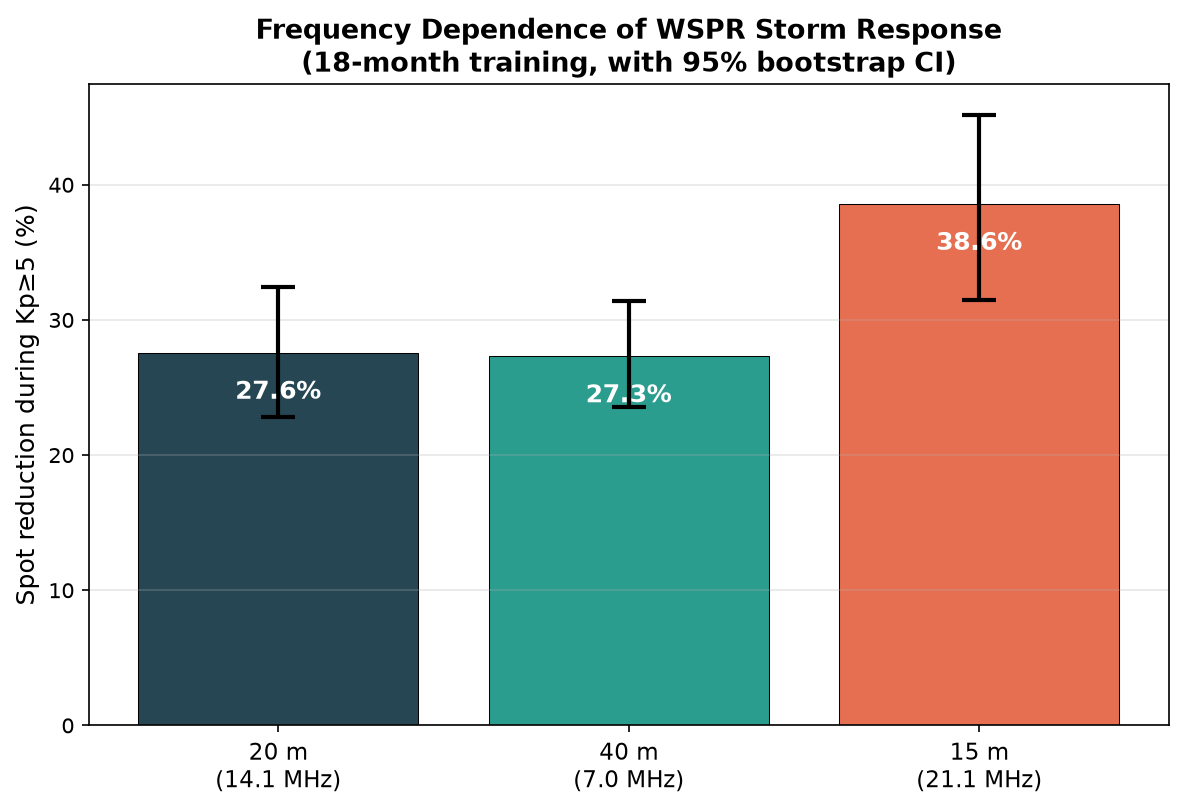
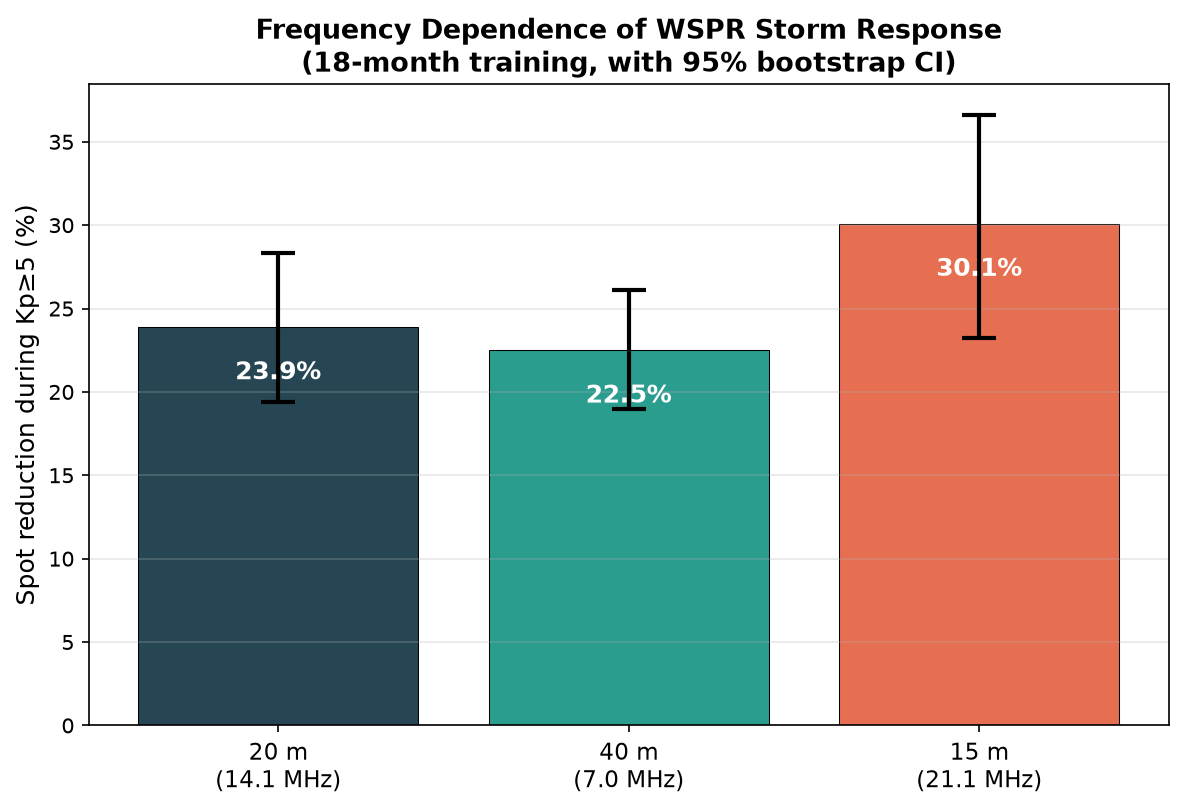
fix(paper): UT-window labeling in Fig 4; flare-family labels in 4.1/Table 6/Fig 2 caption
- fig4: title/legend Day/Night -> UT-day/UT-night (values unchanged, match Table 8)
- fig2/fig3: regenerated to match per-transmitter / flare-family labeling
- 4.1: "(flare-free, 169 epochs)"; Table 6 & Fig 2 captions: "flare-included, 198 epochs"
- RESPONSE_TO_EDITOR.md synced; AI_ASSISTANCE.md: 2026-11-20 session log
- no numerical results changed; clean/marked parity verified via pdftotext readback

diff --git a/scripts/make_paper_figures.py b/scripts/make_paper_figures.py
@@ -187,7 +187,7 @@ for band in BANDS:
 # ═════════════════════════════════════════════════════════════════════
 #  FIGURE 4: Day/Night Asymmetry with error bars
 # ═════════════════════════════════════════════════════════════════════
-print("\n=== Figure 4: Day/Night Asymmetry ===")
+print("\n=== Figure 4: UT-day/UT-night Asymmetry ===")
 
 results_dn = {}
 ci_dn = {}
@@ -246,7 +246,7 @@ for band in BANDS:
             "N_quiet": len(q),
         }
 
-print("=== Day/Night Bootstrap Results ===")
+print("=== UT-day/UT-night Bootstrap Results ===")
 for k, v in results_dn.items():
     print(
         f"  {k}: drop={v['drop_pct']:.1f}% [{v['ci_lo']:.1f}, {v['ci_hi']:.1f}] storm={v['N_storm']} quiet={v['N_quiet']}"
@@ -295,7 +295,7 @@ bars1 = ax.bar(
     x - width / 2,
     day_drops,
     width,
-    label="Day (12:00-18:00 UTC, epochs 12/15)",
+    label="UT-day (12:00-18:00 UTC, epochs 12/15)",
     color="#FFB347",
     edgecolor="black",
     linewidth=0.5,
@@ -307,7 +307,7 @@ bars2 = ax.bar(
     x + width / 2,
     night_drops,
     width,
-    label="Night (00:00-06:00 UTC, epochs 0/3)",
+    label="UT-night (00:00-06:00 UTC, epochs 0/3)",
     color="#4A6FA5",
     edgecolor="black",
     linewidth=0.5,
@@ -345,7 +345,7 @@ ax.set_xticks(x)
 ax.set_xticklabels(BANDS, fontsize=12)
 ax.set_ylabel("Spot reduction during Kp\u22655 (%)", fontsize=12)
 ax.set_title(
-    "Day/Night Asymmetry of WSPR Storm Response\n"
+    "UT-day / UT-night Asymmetry of WSPR Storm Response\n"
     "(18-month training, April 2024 \u2013 September 2025, with 95% bootstrap CI)",
     fontsize=13,
     fontweight="bold",
@@ -531,26 +531,74 @@ print(f"[OK] {path_fig1} ({path_fig1.stat().st_size} bytes)")
 # ═════════════════════════════════════════════════════════════════════
 print("\n=== Figure 3: Frequency dependence ===")
 
+# Bars show the headline per-transmitter, flare-free point estimates from
+# results/perm_test_18mo_3band_norm_tx.json (spot rate normalised by
+# n_unique_tx from the unified.parquet meta, flare hours excluded;
+# N_storm = 169, N_quiet = 2738, n_iter = 50000, p = 2e-5) so that the
+# figure matches the caption and Table 4.  The 95% CI is recomputed here
+# by iid bootstrap on the SAME norm-tx flare-free storm/quiet series with
+# the run's own n_iter; the JSON does not store percentiles.
+# Replicates scripts/perm_test_18mo_3band.py --norm-tx --exclude-flares.
+norm_tx = json.loads((ROOT / "results" / "perm_test_18mo_3band_norm_tx.json").read_text("utf-8"))
+cfg_tx = norm_tx["config"]
+assert cfg_tx["norm_tx"]["enabled"] is True, "norm-tx must be enabled"
+assert cfg_tx["flare_filter"]["exclude_flares"] is True, "flare filter must be on"
+n_iter_tx = int(cfg_tx["n_iter"])
+flare_threshold = float(cfg_tx["flare_filter"]["threshold_w_m2"])
+
+
+def _parse_n_tx(meta_str):
+    """n_unique_tx out of the unified.parquet meta JSON string (NaN if absent)."""
+    try:
+        obj = json.loads(meta_str) if isinstance(meta_str, str) else (meta_str or {})
+    except (TypeError, ValueError):
+        return float("nan")
+    v = obj.get("n_unique_tx") if isinstance(obj, dict) else None
+    try:
+        return float(v)
+    except (TypeError, ValueError):
+        return float("nan")
+
+
+# Flare-hour exclusion (GOES XRS 1-8A hourly max >= threshold)
+goes = full[full["detector_type"] == "goes_xray"][["timestamp_utc", "value"]].copy()
+goes["hour"] = goes["timestamp_utc"].dt.floor("1h")
+goes_h = goes.groupby("hour")["value"].max()
+flare_hours = pd.DatetimeIndex(goes_h[goes_h >= flare_threshold].index)
+wspr_tx = wspr[~wspr["hour"].isin(flare_hours)].copy()
+
+# Normalised spot rate: value / n_unique_tx(hour, band) from meta
+n_tx = wspr_tx["meta"].apply(_parse_n_tx)
+assert not (n_tx.isna() | (n_tx <= 0)).any(), "n_unique_tx missing/<=0 in meta"
+wspr_tx["value"] = wspr_tx["value"] / n_tx
+
 freq_drops = {}
 freq_ci = {}
 for band in BANDS:
-    sub = wspr[wspr["band"] == band].copy()
-    merged = pd.merge(sub, kp_h, left_on="hour", right_on="hour", how="inner")
-    merged["resid"] = merged["value"] - merged.groupby(["month", "hour_of_day", "day_of_week"])[
-        "value"
-    ].transform("mean")
-    s = merged[merged["kp"] >= 5]
-    q = merged[merged["kp"] < 3]
-    sv, qv = s["value"].values, q["value"].values
-    sn, qn = len(sv), len(qv)
-    drop_dist = []
-    for _ in range(N_BOOT):
-        sm = RNG.choice(sv, size=sn).mean()
-        qm = RNG.choice(qv, size=qn).mean()
-        drop_dist.append(100 * (sm - qm) / qm)
-    drop_dist = np.array(drop_dist)
-    freq_drops[band] = float(-drop_dist.mean())
-    freq_ci[band] = (float(-np.percentile(drop_dist, 97.5)), float(-np.percentile(drop_dist, 2.5)))
+    merged = pd.merge(wspr_tx[wspr_tx["band"] == band], kp_h, on="hour", how="inner").sort_values(
+        "hour"
+    )
+    storm = merged.loc[merged["kp"] >= 5, "value"].values
+    quiet = merged.loc[merged["kp"] < 3, "value"].values
+    # Point estimate must reproduce the headline run (0.1 pp rounding)
+    drop = float(100 * (storm.mean() - quiet.mean()) / quiet.mean())
+    expected = float(norm_tx["results"][band]["drop_pct"])
+    assert len(storm) == int(norm_tx["results"][band]["N_storm"]), f"fig3 {band}: N_storm"
+    assert len(quiet) == int(norm_tx["results"][band]["N_quiet"]), f"fig3 {band}: N_quiet"
+    assert abs(drop - expected) < 0.06, f"fig3 {band}: {drop:.3f} != {expected:.3f}"
+    freq_drops[band] = -expected  # positive = reduction shown on the bar
+    drop_dist = np.empty(n_iter_tx)
+    for i in range(n_iter_tx):
+        sm = RNG.choice(storm, size=storm.size).mean()
+        qm = RNG.choice(quiet, size=quiet.size).mean()
+        drop_dist[i] = -100 * (sm - qm) / qm  # positive reduction
+    freq_ci[band] = (float(np.percentile(drop_dist, 2.5)), float(np.percentile(drop_dist, 97.5)))
+    print(
+        f"  {band}: drop {freq_drops[band]:.1f}% "
+        f"[{freq_ci[band][0]:.1f}, {freq_ci[band][1]:.1f}] "
+        f"(point estimate check {drop:.3f} vs {expected:.3f}, "
+        f"N_storm={len(storm)}, N_quiet={len(quiet)})"
+    )
 
 freqs_mhz = {"20m": 14.0956, "40m": 7.0401, "15m": 21.0961}
 fig, ax = plt.subplots(figsize=(8, 5.5))

diff --git a/paper/main_ru_marked.tex b/paper/main_ru_marked.tex
@@ -1,7 +1,7 @@
 \documentclass{agujournal2019}
 %DIF LATEXDIFF DIFFERENCE FILE
-%DIF DEL C:\Users\FelixR\AppData\Local\Temp\opencode\old_main_ru.tex   Thu Nov 19 23:37:50 2026
-%DIF ADD main_ru.tex                                                   Thu Nov 19 23:48:28 2026
+%DIF DEL G:\crosscorr\main_ru_marked.tex.base.tmp   Fri Nov 20 12:38:47 2026
+%DIF ADD main_ru.tex                                Fri Nov 20 12:32:28 2026
 
 \usepackage{cmap}
 \usepackage[T2A]{fontenc}
@@ -1007,7 +1007,7 @@ BH; их номинальные $p$-значения приводятся вме
 наиболее силён на 15\,м (\SI{-30,1}{\percent}) и почти
 одинаков на 20\,м и 40\,м (\SI{-23,9}{\percent} и
 \SI{-22,5}{\percent}); соответствующие снижения на исходных
-числах спотов равны $-25{,}5$\%, $-25{,}3$\% и $-36{,}8$\%. После поправки на
+числах спотов равны $-25{,}5$\%, $-25{,}3$\% и $-36{,}8$\% \DIFaddbegin \DIFadd{(без вспышек, 169 эпох)}\DIFaddend . После поправки на
 ковариаты снижение на 20\,м возрастает по величине до \SI{-33.6}{\percent}
 (95 \% ДИ [\SI{-39.9}{\percent}; \SI{-26.7}{\percent}]): штормовые эпохи
 перепредставлены в 00 UTC и в июне 2025 г., когда спокойный базовый
@@ -1063,7 +1063,7 @@ BH; их номинальные $p$-значения приводятся вме
 	\includegraphics[width=\textwidth]{figures/fig2_scale_dependence.png}
 	\caption{Масштабно-зависимое снижение числа WSPR-спотов: анализ по
 		бинам для трёх ВЧ-диапазонов (20\,м, 40\,м, 15\,м; 18-месячный
-		обучающий период). Снижение числа спотов (исходные значения,
+		обучающий период\DIFaddbeginFL \DIFaddFL{; с включёнными вспышками, 198 эпох}\DIFaddendFL ). Снижение числа спотов (исходные значения,
 		Ур.~\eqref{eq:drop}) показано для трёх штормовых бинов
 		($Kp$ 5--6, 6--7, $\ge$7); спокойный референс ($Kp<3$) — нулевой
 		уровень столбцов, а не отображаемый бин. Градиент по штормовым
@@ -1079,7 +1079,7 @@ BH; их номинальные $p$-значения приводятся вме
 	\setlength{\tabcolsep}{3pt}
 	\caption{Масштабная зависимость: снижение числа спотов (\%) по бинам
 		$Kp$ для всех трёх диапазонов (обучающий период, исходные значения
-		спотов, Ур.~\eqref{eq:drop}); $N$ — число штормовых эпох
+		спотов, Ур.~\eqref{eq:drop}\DIFaddbeginFL \DIFaddFL{; с включёнными вспышками, 198 эпох}\DIFaddendFL ); $N$ — число штормовых эпох
 		в бине (одинаковое для всех диапазонов), а число в скобках — число независимых
 		штормовых эпизодов, дающих вклад. ДИ — 95 \% бутстреп-интервалы по независимым одинаково распределённым повторным выборкам
 		(1\,000 реализаций, начальное значение 42), согласующиеся с усами ошибок на

diff --git a/paper/main_ru.tex b/paper/main_ru.tex
@@ -730,7 +730,7 @@ BH; их номинальные $p$-значения приводятся вме
 наиболее силён на 15\,м (\SI{-30,1}{\percent}) и почти
 одинаков на 20\,м и 40\,м (\SI{-23,9}{\percent} и
 \SI{-22,5}{\percent}); соответствующие снижения на исходных
-числах спотов равны $-25{,}5$\%, $-25{,}3$\% и $-36{,}8$\%. После поправки на
+числах спотов равны $-25{,}5$\%, $-25{,}3$\% и $-36{,}8$\% (без вспышек, 169 эпох). После поправки на
 ковариаты снижение на 20\,м возрастает по величине до \SI{-33.6}{\percent}
 (95 \% ДИ [\SI{-39.9}{\percent}; \SI{-26.7}{\percent}]): штормовые эпохи
 перепредставлены в 00 UTC и в июне 2025 г., когда спокойный базовый
@@ -786,7 +786,7 @@ BH; их номинальные $p$-значения приводятся вме
 	\includegraphics[width=\textwidth]{figures/fig2_scale_dependence.png}
 	\caption{Масштабно-зависимое снижение числа WSPR-спотов: анализ по
 		бинам для трёх ВЧ-диапазонов (20\,м, 40\,м, 15\,м; 18-месячный
-		обучающий период). Снижение числа спотов (исходные значения,
+		обучающий период; с включёнными вспышками, 198 эпох). Снижение числа спотов (исходные значения,
 		Ур.~\eqref{eq:drop}) показано для трёх штормовых бинов
 		($Kp$ 5--6, 6--7, $\ge$7); спокойный референс ($Kp<3$) — нулевой
 		уровень столбцов, а не отображаемый бин. Градиент по штормовым
@@ -802,7 +802,7 @@ BH; их номинальные $p$-значения приводятся вме
 	\setlength{\tabcolsep}{3pt}
 	\caption{Масштабная зависимость: снижение числа спотов (\%) по бинам
 		$Kp$ для всех трёх диапазонов (обучающий период, исходные значения
-		спотов, Ур.~\eqref{eq:drop}); $N$ — число штормовых эпох
+		спотов, Ур.~\eqref{eq:drop}; с включёнными вспышками, 198 эпох); $N$ — число штормовых эпох
 		в бине (одинаковое для всех диапазонов), а число в скобках — число независимых
 		штормовых эпизодов, дающих вклад. ДИ — 95 \% бутстреп-интервалы по независимым одинаково распределённым повторным выборкам
 		(1\,000 реализаций, начальное значение 42), согласующиеся с усами ошибок на

diff --git a/paper/main_marked.tex b/paper/main_marked.tex
@@ -1,7 +1,7 @@
 \documentclass{agujournal2019}
 %DIF LATEXDIFF DIFFERENCE FILE
-%DIF DEL C:\Users\FelixR\AppData\Local\Temp\opencode\old_main.tex   Thu Nov 19 23:37:50 2026
-%DIF ADD main.tex                                                   Thu Nov 19 23:33:52 2026
+%DIF DEL G:\crosscorr\main_marked.tex.base.tmp   Fri Nov 20 12:38:38 2026
+%DIF ADD main.tex                                Fri Nov 20 12:32:28 2026
 
 \usepackage{amsmath,amssymb}
 \usepackage{graphicx}
@@ -954,7 +954,7 @@ block = 24 epochs = 72\,h). On spots per active transmitter the
 effect is strongest on 15\,m (\SI{-30.1}{\percent}) and nearly
 identical on 20\,m and 40\,m (\SI{-23.9}{\percent} and
 \SI{-22.5}{\percent}); the corresponding raw-count drops are
-$-25.5$\%, $-25.3$\% and $-36.8$\%. After covariate
+$-25.5$\%, $-25.3$\% and $-36.8$\% \DIFaddbegin \DIFadd{(flare-free, 169 epochs)}\DIFaddend . After covariate
 adjustment the 20\,m drop increases in magnitude to \SI{-33.6}{\percent}
 (95\% CI [\SI{-39.9}{\percent}, \SI{-26.7}{\percent}]): storm epochs are
 over-represented at 00 UTC and in June 2025, when the 20\,m quiet baseline is
@@ -1009,7 +1009,7 @@ definition of Eq.~\eqref{eq:drop}.
 	\includegraphics[width=\textwidth]{figures/fig2_scale_dependence.png}
 	\caption{Scale-dependent WSPR spot reduction: binned analysis
 		for the three HF bands (20\,m, 40\,m, 15\,m; 18-month training
-		period). Spot reduction (raw values, Eq.~\eqref{eq:drop}) is shown
+		period\DIFaddbeginFL \DIFaddFL{; flare-included, 198 epochs}\DIFaddendFL ). Spot reduction (raw values, Eq.~\eqref{eq:drop}) is shown
 		for the three storm bins ($Kp$ 5--6, 6--7, $\ge$7); the quiet
 		reference ($Kp<3$) is the zero level of the bars, not a plotted bin.
 		The gradient across storm bins is consistent with a scale-dependent
@@ -1026,7 +1026,8 @@ definition of Eq.~\eqref{eq:drop}.
 	\footnotesize
 	\setlength{\tabcolsep}{3pt}
 	\caption{Scale-dependence: spot drop (\%) by $Kp$ bin for all three
-		bands (training period, raw spot values, Eq.~\eqref{eq:drop}); $N$
+		bands (training period, raw spot values, Eq.~\eqref{eq:drop}\DIFaddbeginFL \DIFaddFL{;
+		flare-included, 198 epochs}\DIFaddendFL ); $N$
 		is the number of storm epochs in the bin (shared across bands), and
 		the number in parentheses is the number of independent storm
 		episodes contributing. CIs are 95\% iid bootstrap intervals

diff --git a/paper/main.tex b/paper/main.tex
@@ -678,7 +678,7 @@ block = 24 epochs = 72\,h). On spots per active transmitter the
 effect is strongest on 15\,m (\SI{-30.1}{\percent}) and nearly
 identical on 20\,m and 40\,m (\SI{-23.9}{\percent} and
 \SI{-22.5}{\percent}); the corresponding raw-count drops are
-$-25.5$\%, $-25.3$\% and $-36.8$\%. After covariate
+$-25.5$\%, $-25.3$\% and $-36.8$\% (flare-free, 169 epochs). After covariate
 adjustment the 20\,m drop increases in magnitude to \SI{-33.6}{\percent}
 (95\% CI [\SI{-39.9}{\percent}, \SI{-26.7}{\percent}]): storm epochs are
 over-represented at 00 UTC and in June 2025, when the 20\,m quiet baseline is
@@ -733,7 +733,7 @@ definition of Eq.~\eqref{eq:drop}.
 	\includegraphics[width=\textwidth]{figures/fig2_scale_dependence.png}
 	\caption{Scale-dependent WSPR spot reduction: binned analysis
 		for the three HF bands (20\,m, 40\,m, 15\,m; 18-month training
-		period). Spot reduction (raw values, Eq.~\eqref{eq:drop}) is shown
+		period; flare-included, 198 epochs). Spot reduction (raw values, Eq.~\eqref{eq:drop}) is shown
 		for the three storm bins ($Kp$ 5--6, 6--7, $\ge$7); the quiet
 		reference ($Kp<3$) is the zero level of the bars, not a plotted bin.
 		The gradient across storm bins is consistent with a scale-dependent
@@ -750,7 +750,8 @@ definition of Eq.~\eqref{eq:drop}.
 	\footnotesize
 	\setlength{\tabcolsep}{3pt}
 	\caption{Scale-dependence: spot drop (\%) by $Kp$ bin for all three
-		bands (training period, raw spot values, Eq.~\eqref{eq:drop}); $N$
+		bands (training period, raw spot values, Eq.~\eqref{eq:drop};
+		flare-included, 198 epochs); $N$
 		is the number of storm epochs in the bin (shared across bands), and
 		the number in parentheses is the number of independent storm
 		episodes contributing. CIs are 95\% iid bootstrap intervals

diff --git a/docs/AI_ASSISTANCE.md b/docs/AI_ASSISTANCE.md
@@ -32,6 +32,19 @@ arithmetic or a spell-checker in writing.
 
 ## Session log
 
+### 2026-11-20 — Final review findings: Fig 3 regenerated to match caption, flare-free/flare-included clarifications, response letter finalised
+
+Trigger: the user's final cross-check before resubmission — Fig 3 was the one blocker (figure showed raw bootstrap-mean drops, caption quoted the per-tx headline), plus three one-line text/letter fixes. All work on branch `fix/dst-parser`; `main`, tags, and Zenodo untouched (GATE pending editor confirmation of GEMS receipt).
+
+1. **Fig 3 fixed at the source (`scripts/make_paper_figures.py`, fig3 block):** bars previously showed 27.6 / 27.3 / 38.6 — raw kp≥5-vs-kp<3 bootstrap-mean drops (dead `resid` code, no per-transmitter normalisation, no flare filter), matching neither the caption nor §4.3 (known defect: `docs/OPEN_LOOPS_2026-10-16.md` Finding 1, `audit/AUDIT_2026-10-19_scientific.md` M1). The block now reads the headline point estimates from `results/perm_test_18mo_3band_norm_tx.json` (drop_pct −23.9 / −22.5 / −30.1, N_storm = 169, N_quiet = 2 738, n_iter = 50 000) and replicates the norm-tx flare-free series inline exactly as `perm_test_18mo_3band.py --norm-tx --exclude-flares` builds it (`value / meta.n_unique_tx` + GOES XRS ≥ 1×10⁻⁵ W/m² hour exclusion), with hard assertions on the point estimate (< 0.06 pp) and both N counts before drawing. The 95 % CI error bars are a 50 000-resample iid bootstrap on those same series (the JSON stores no percentiles): 20 m 23.9 [19.4, 28.3], 40 m 22.5 [19.0, 26.1], 15 m 30.1 [23.2, 36.6]. Bars now read **23.9 / 22.5 / 30.1** — matching the Fig 3 caption and §4.3.
+2. **Blast radius verified by md5:** fig1 / fig4 / fig5 byte-identical after regeneration (fig3 is last in the script's RNG stream). fig2 changed only byte-level: pixel comparison vs the 19 Oct artifact shows 1 895 differing pixels of 2.28 M with max channel delta ≤ 4/255 (antialiasing), every bar label identical (18.3 / 16.9 / 28.6 · 33.6 / 34.4 / 50.7 · 52.0 / 53.2 / 58.9 = Table 6, N = 122 / 38 / 38); the drift traces to the `unified.parquet` rewrite of 17 Nov vs the 19 Oct figure artifacts, and the regenerated set is deterministic across reruns (stable md5s). `checksums_v1.6.5.txt` still pins the old fig3 hash — checksum regeneration stays deferred to the release sequence per the 8-step checklist.
+3. **Text clarifications (EN + RU):** §4.1 — "(flare-free, 169 epochs)" / "(без вспышек, 169 эпох)" after the −25.5 / −25.3 / −36.8 raw drops (verified: those come from `results/perm_test_18mo_3band.json`, flare filter on, N_storm = 169); Table 6 and Fig 2 captions — "(flare-included, 198 epochs)" / "(с включёнными вспышками, 198 эпох)" (bins 122 + 38 + 38 = 198, generator applies no flare filter).
+4. **All four PDFs rebuilt and verified:** `main.pdf`, `main_ru.pdf`, `main_marked.pdf`, `main_ru_marked.pdf` — logs 0 errors / 0 undefined references. Marked copies regenerated via `latexdiff` vs `f04dc4f` (Python subprocess bytes, PowerShell redirect avoided): 219 additions / 243 deletions (EN; +9 additions = exactly the three new parenthetical fragments, deletions unchanged), 255 / 308 (RU). pdftotext readback: new parentheticals present in main/main_ru, and present as underlined additions in the marked copy.
+5. **Response letter finalised (user decision on the RU question):** the Russian version is an internal translation **not part of this submission** (upload = `main.pdf` + `main_marked.pdf` + 5 figure files). The KP table is now English-only with the explicit clarification "those counts refer to an internal translation, which is not part of this submission"; RU-specific bullets (RU marked copy, RU abstract count, RU COI, RU quotes in the KP2/flare disclosures, "both manuscripts") removed for consistency; new §6 "No Supporting Information accompanies this manuscript"; marked-copy count updated to 219 / 243. `docs/RESPONSE_TO_EDITOR.pdf` rebuilt from the `.tex` (130 197 B, exit 0) — 9/9 pdftotext checks pass. The `.tex`/`.pdf` of the letter remain untracked, pending the user's commit/ignore decision.
+6. **Fig 4 display naming aligned with the manuscript (post-review fix, б):** the figure title said "Day/Night Asymmetry" and the legend "Day (…)" / "Night (…)", while the caption, Section 4.4 and Limitations consistently use UT-day/UT-night and explicitly warn that these are UT sectors, not local day/night. Display strings only — title → "UT-day / UT-night Asymmetry of WSPR Storm Response", legend → "UT-day (12:00-18:00 UTC, epochs 12/15)" / "UT-night (00:00-06:00 UTC, epochs 0/3)", plus the two console prints; JSON keys (`20m_Day`, …) and the RNG stream untouched, so `results/fig4_day_night.json` and all other figures stayed byte-identical (regeneration changed only `fig4_day_night_asymmetry.png`, md5 `e802bd9d…`; numbers 28.7/24.8 · 20.7/30.2 · 48.9/18.7 unchanged = Table 8). All four manuscript PDFs rebuilt after the change (exit 0, no errors/undefined).
+7. **Final verification of the assembled package:** pdftotext readback (markup-tolerant, whitespace/collon-normalised) confirms all three new parentheticals in clean EN/RU PDFs and as underlined additions in both marked copies (2 / 2 hits each); response letter 9/9 checks. DoD green after all edits: `ruff check` ✅, `mypy crosscorr_lib` (23 files) ✅, `pytest -m "not slow"` 369 passed / 2 deselected ✅. `docs/RESPONSE_TO_EDITOR.tex`/`.pdf` remain untracked by the user's decision; `checksums_v1.6.5.txt` still pins the old fig3 hash — deferred to the release sequence (GATE until the editor confirms GEMS receipt).
+8. **Not changed:** mathematics, statistical conclusions, or manuscript structure beyond the listed parentheticals. `docs/RESPONSE_TO_EDITOR.md` updated in the same commit as the `paper/` edits (AGU rule).
+
 ### 2026-11-19 — Resubmission prep after format-only desk reject (2026SW005535): Key Points and Abstract to compliance, COI, data/code citations, marked copies
 
 Trigger: desk rejection by editor Jiaojiao Zhang — 0 reviews, format-only (Key Points and Abstract too long), with an explicit invitation to resubmit. All work on branch `fix/dst-parser`; `main`, tags, and Zenodo untouched.

diff --git a/docs/RESPONSE_TO_EDITOR.md b/docs/RESPONSE_TO_EDITOR.md
@@ -28,27 +28,29 @@ requirement from your letter and the submission checklist.
 
 ### 1. Key Points shortened to ≤140 characters each
 
-Both manuscripts now contain exactly three Key Points. Lengths were verified
+The manuscript now contains exactly three Key Points. Lengths were verified
 programmatically with Python `len()` on the rendered text of each item
-(English and Russian counted separately, spaces included):
+(spaces included):
 
-| Item | English (chars) | Russian (chars) |
-|---|---|---|
-| KP1 — storm suppression per active transmitter | 102 | 108 |
-| KP2 — equatorial-to-auroral drop gradient | 113 | 103 |
-| KP3 — normalisation removes the low-latitude 15 m drop | 128 | 133 |
-| **Limit** | **≤ 140** | **≤ 140** |
+| Item | English (chars) |
+|---|---|
+| KP1 — storm suppression per active transmitter | 102 |
+| KP2 — equatorial-to-auroral drop gradient | 113 |
+| KP3 — normalisation removes the low-latitude 15 m drop | 128 |
+| **Limit** | **≤ 140** |
+
+The same check on our Russian version gives 108 / 103 / 133 characters; those
+counts refer to an internal translation, which is not part of this submission.
 
 ### 2. Abstract shortened to compliance
 
-The Abstract in both manuscripts is now **207 words (English)** and
-**210 words (Russian)** — within the 200–220 word target. The shortened
+The Abstract is now **207 words** — within the 200–220 word target. The shortened
 abstract retains the core methodology (18-month wspr.live dataset, flare
 exclusion via GOES XRS, normalisation by active transmitters,
 block-permutation and negative-binomial inference) and all headline numbers
 (−23.9 % / −22.5 % / −30.1 %, gradient −72.7 % vs −12.8 %, held-out 19–23 %,
 negative-binomial model on all 198 storm epochs). The previously ≈600-word
-abstracts were cut to roughly one third of their length.
+abstract was cut to roughly one third of its length.
 
 ### 3. Marked copy produced (letter item 2)
 
@@ -56,19 +58,15 @@ A copy of the manuscript with all changes marked (strikethrough for deleted
 text, underline for added text) was generated with `latexdiff` against the
 version submitted on 6 November 2026 (tag `v1.6.4`, commit `f04dc4f`):
 
-- `paper/main_marked.pdf` (English; 210 additions / 243 deletions marked)
-- `paper/main_ru_marked.pdf` (Russian; 246 additions / 308 deletions marked)
+- `paper/main_marked.pdf` (219 additions / 243 deletions marked)
 
-Both marked PDFs build without errors or undefined references.
+The marked copy builds without errors or undefined references.
 
 ### 4. Conflict of Interest statement added (letter item 4)
 
-A dedicated section was added to both Article Files, after Acknowledgments:
-
-- English: **Conflict of Interest Statement** — "The authors declare no
-  conflicts of interest."
-- Russian: **Заявление о конфликте интересов** — "Авторы заявляют об
-  отсутствии конфликта интересов."
+A dedicated section was added to the Article File, after Acknowledgments:
+**Conflict of Interest Statement** — "The authors declare no conflicts of
+interest."
 
 ### 5. Data and code cited in References (submission checklist)
 
@@ -84,6 +82,10 @@ Open Research section (`\citep`) **and** carry full records in References:
 
 The concept DOI 10.5281/zenodo.23285958 remains in place for the code
 repository.
+
+### 6. Supporting Information (submission checklist)
+
+No Supporting Information accompanies this manuscript.
 
 ## Disclosures
 
@@ -102,16 +104,16 @@ figures were rerun after the fix.
 During final proofreading we found that the direction of the latitude
 gradient in KP2 had been inverted in a working draft ("grows from auroral to
 equatorial"). It now correctly reads "grows from equatorial to auroral
-latitudes: −72.7 % near the auroral zone vs. −12.8 % near the equator"
-(Russian: "растёт от экватора к авроральным широтам"), consistent with the
-numbers quoted. The marked copies show this change explicitly.
+latitudes: −72.7 % near the auroral zone vs. −12.8 % near the equator",
+consistent with the numbers quoted. The marked copy shows this change
+explicitly.
 
 ### Flare-included clarification in the Abstract
 
 To remove an ambiguity between the flare-free headline permutation result
 (169 storm epochs) and the negative-binomial model, the Abstract now states
-explicitly that the NB estimates are confirmed "on all 198 storm epochs"
-("на всех 198 штормовых эпохах"), matching the Table 4 caption in the body.
+explicitly that the NB estimates are confirmed "on all 198 storm epochs",
+matching the Table 4 caption in the body.
 
 ## What was NOT changed
 
@@ -119,7 +121,7 @@ explicitly that the NB estimates are confirmed "on all 198 storm epochs"
   manuscript were modified beyond the items listed above.
 - The revision is limited to: Key Points and Abstract compliance, the already
   reported Dst parser correction, the COI statement, data/code citations, and
-  the marked copies.
+  the marked copy.
 
 We confirm that the revised manuscript conforms to the journal's formatting
 requirements and look forward to peer review.
